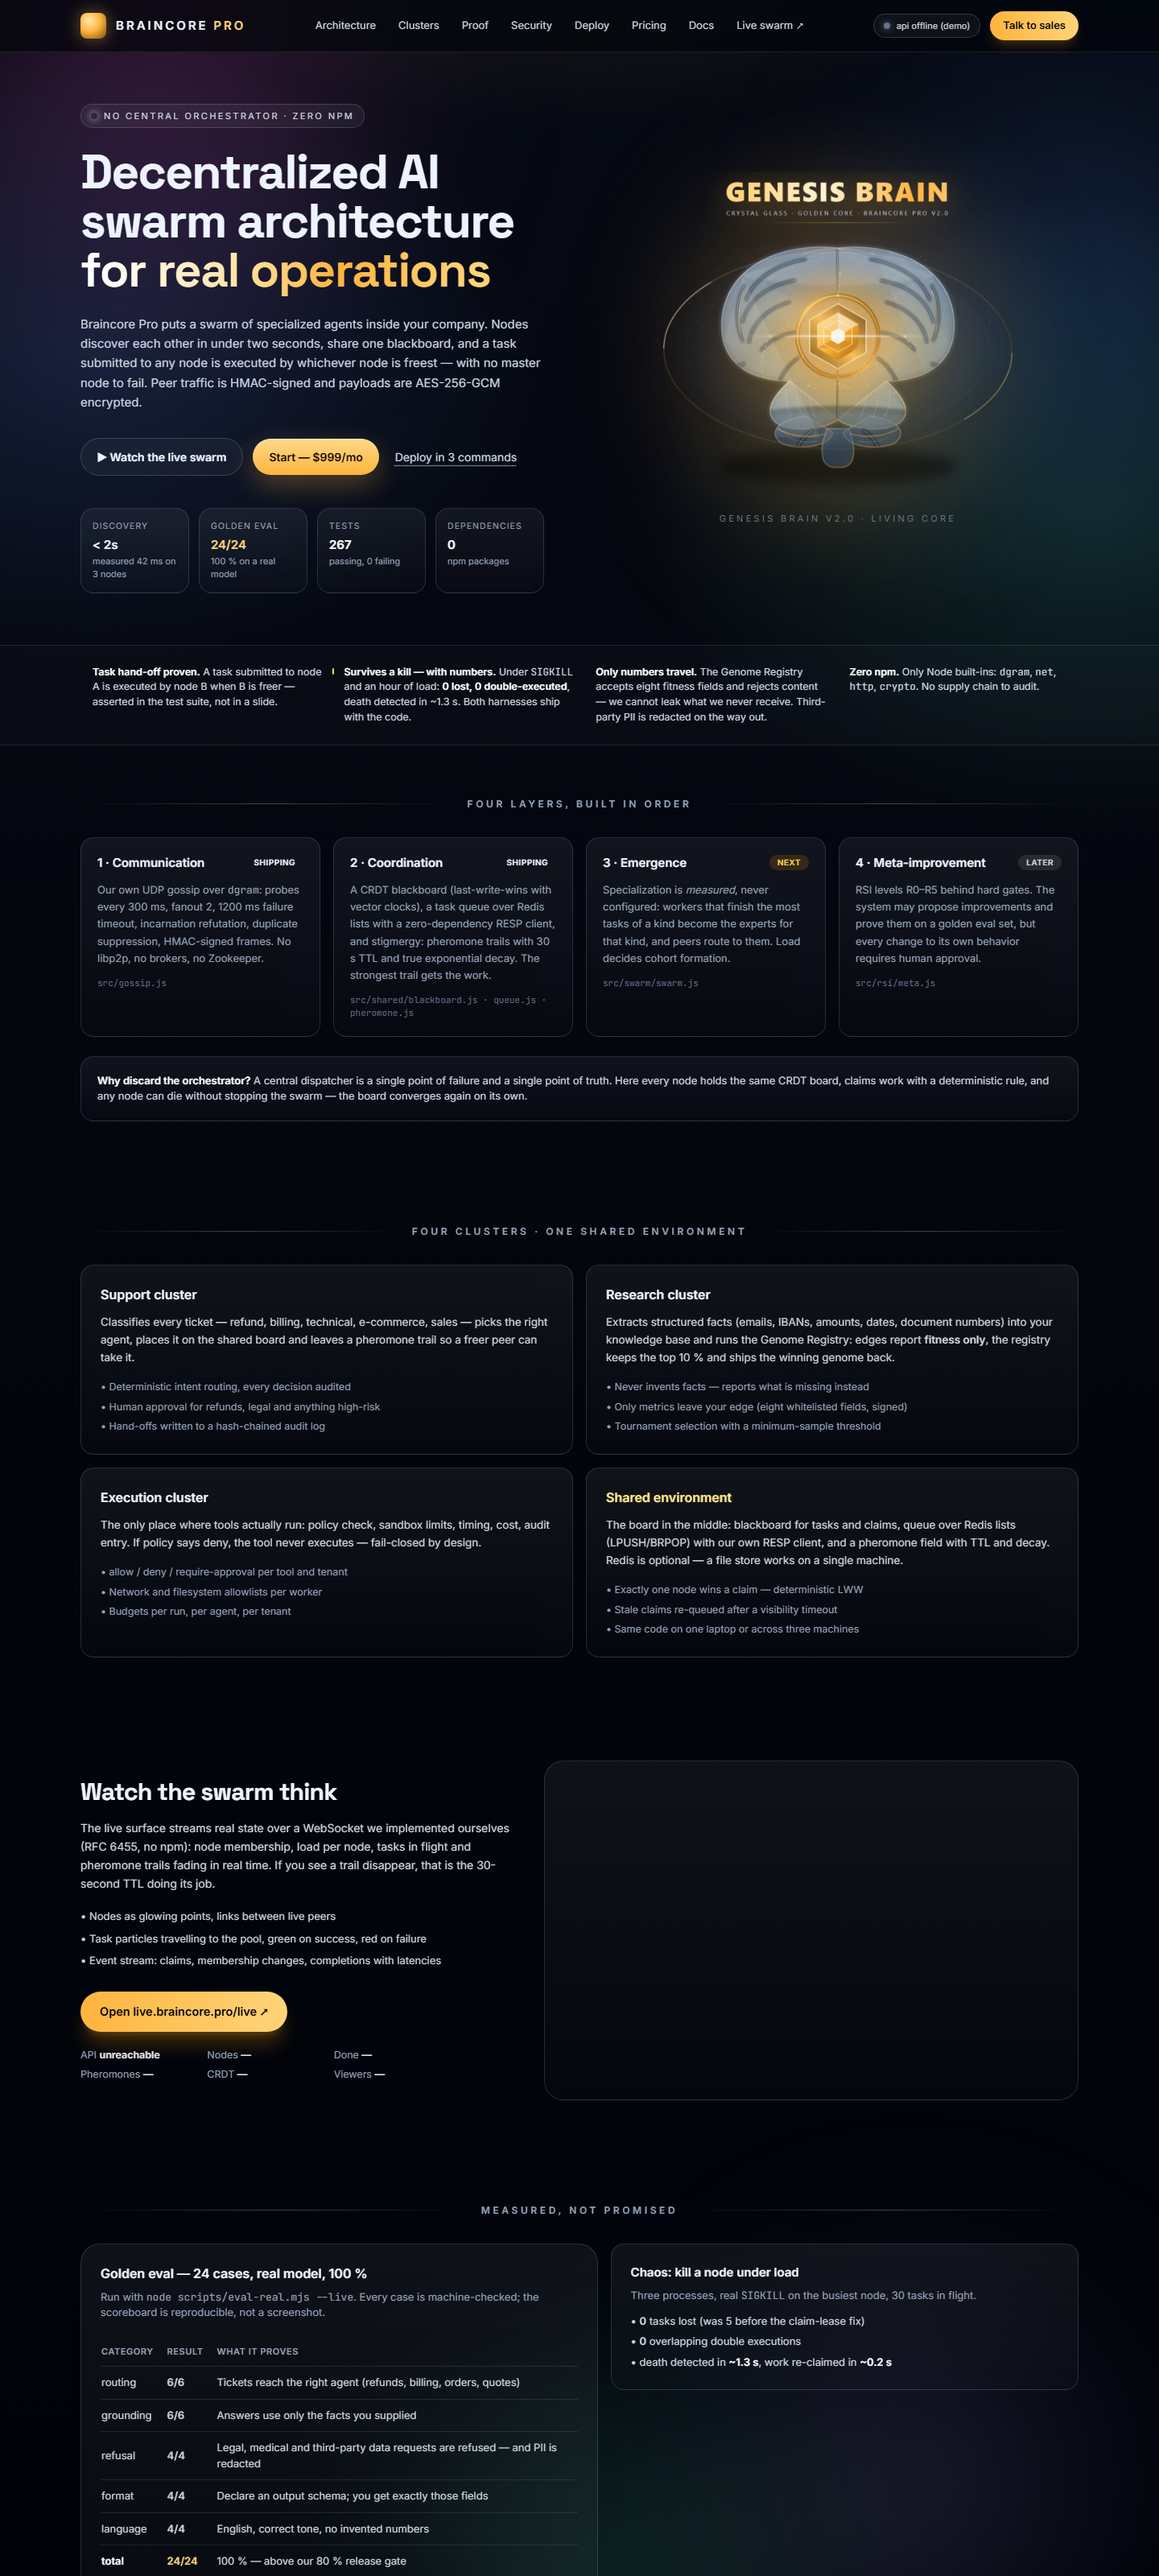
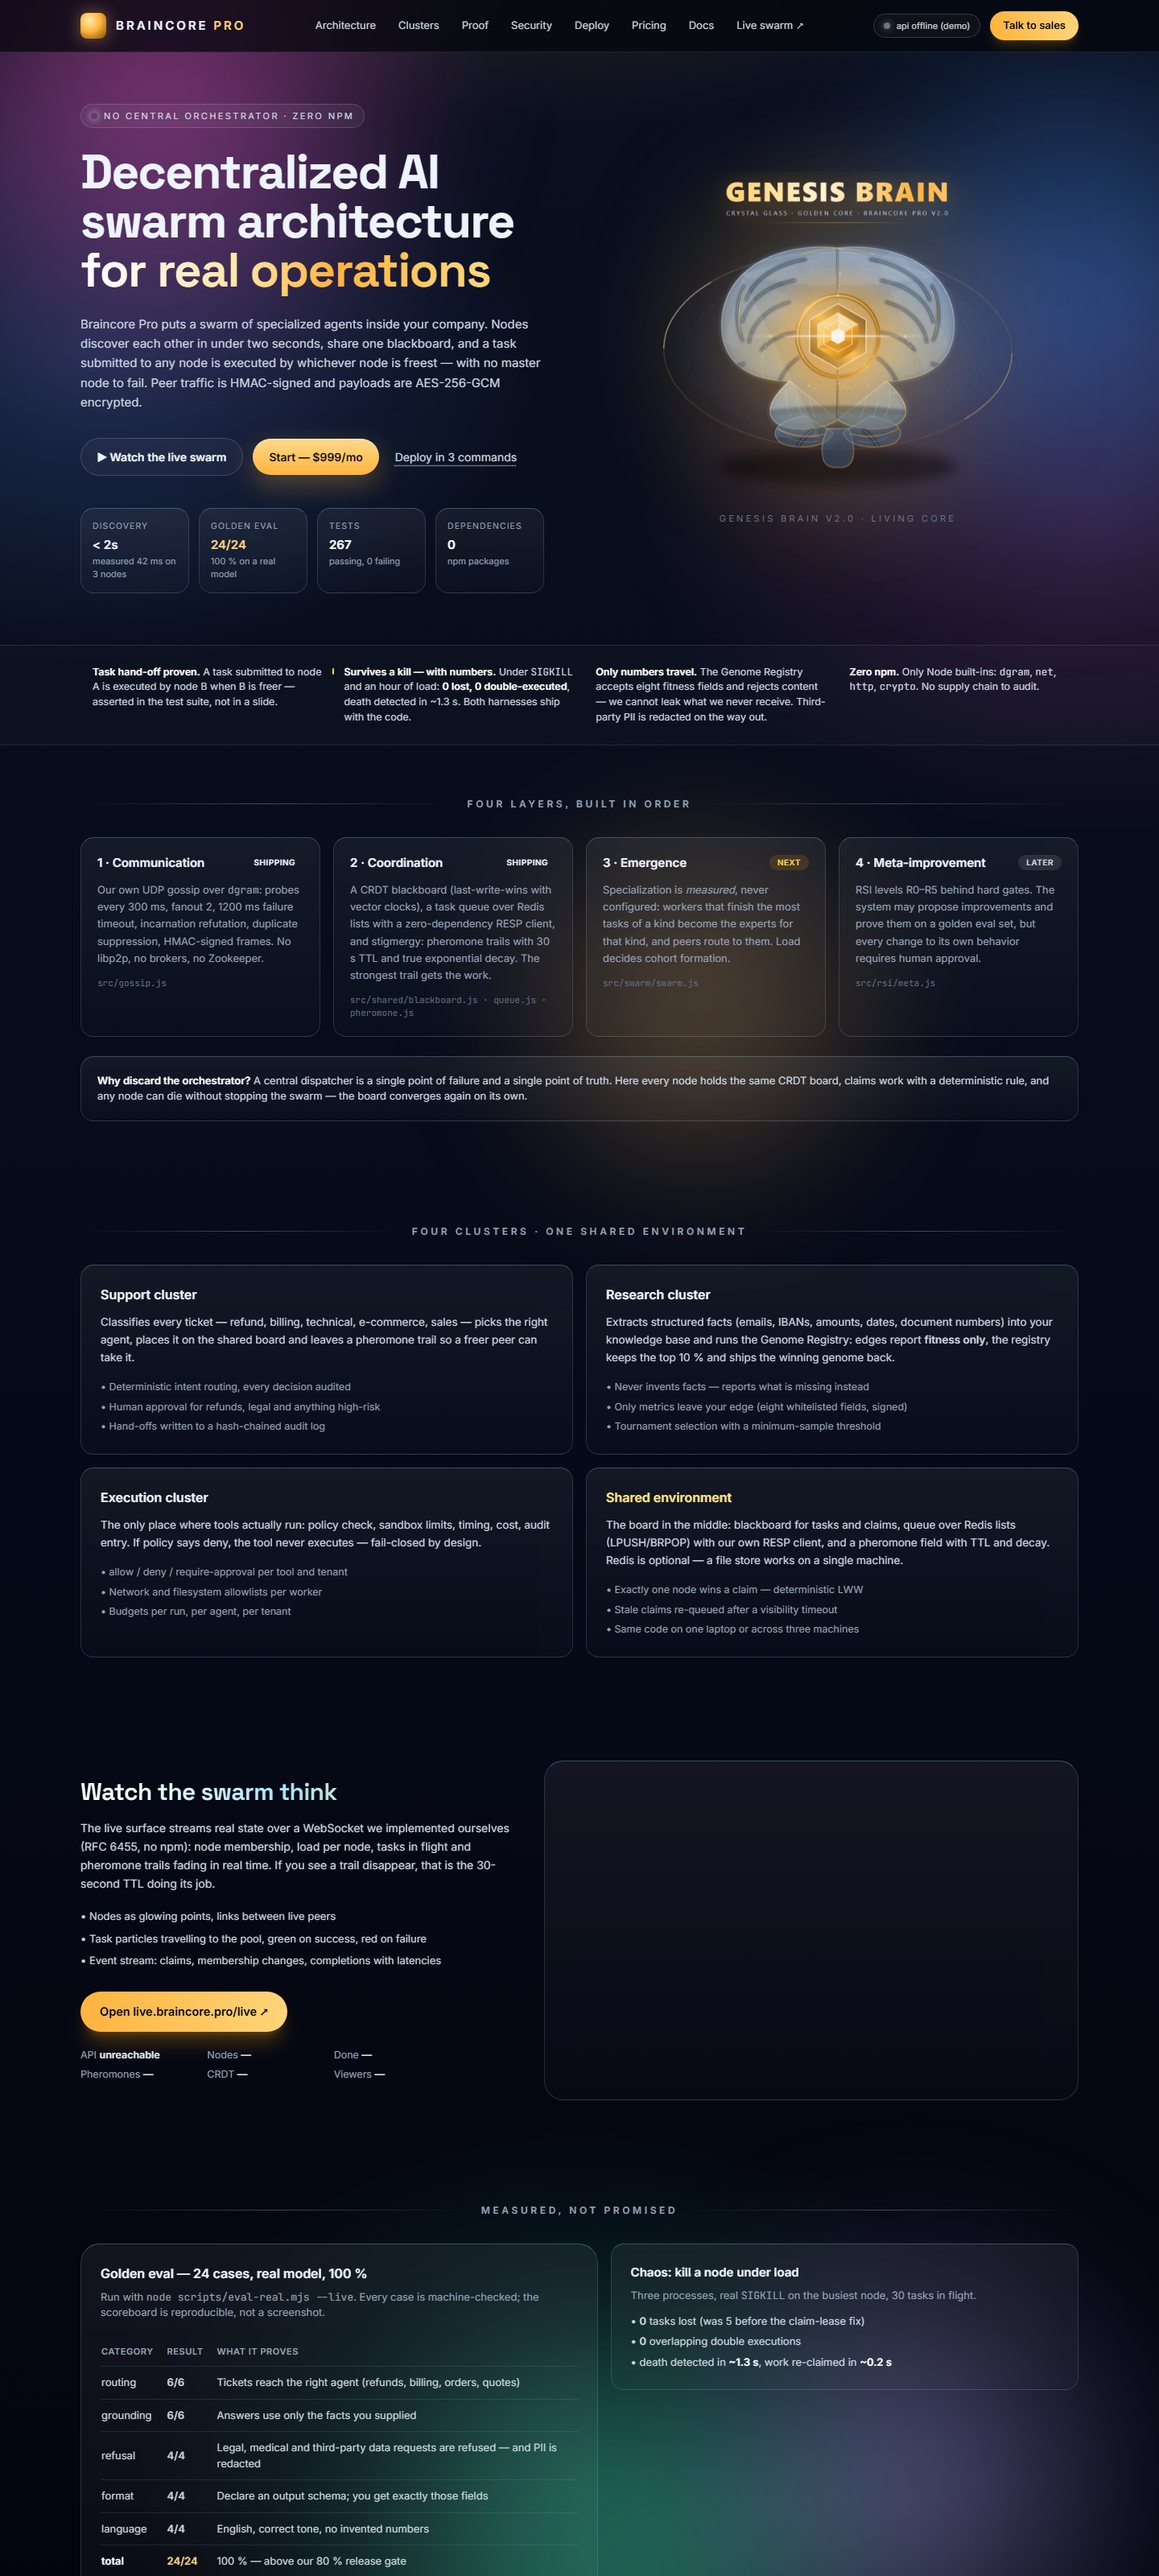
pojacanje boje (mjereno): aurora 4->5 bloba opacity .5->.8 blur 90->70px; tijelo svjetlije rgb 18,22,30 -> 28,31,44; tamni pikseli 92,0% -> 77,1%; cyan 2,1% -> 3,1%; h2 gradient; glass cyan gornja ivica

diff --git a/site/index.html b/site/index.html
@@ -35,24 +35,31 @@
   html { scroll-behavior: smooth; }
   body {
     background:
-      radial-gradient(1200px 800px at 50% -10%, rgba(255,180,61,.18), transparent 60%),
-      radial-gradient(900px 620px at 8% 14%, rgba(96,150,255,.16), transparent 62%),
-      radial-gradient(900px 640px at 94% 20%, rgba(90,255,210,.12), transparent 62%),
-      linear-gradient(180deg, #060a14 0%, #03050c 55%, #01030a 100%);
+      radial-gradient(1200px 800px at 50% -10%, rgba(255,180,61,.22), transparent 60%),
+      radial-gradient(900px 620px at 8% 14%, rgba(96,150,255,.22), transparent 62%),
+      radial-gradient(900px 640px at 94% 20%, rgba(255,92,208,.16), transparent 62%),
+      radial-gradient(900px 700px at 50% 96%, rgba(70,255,200,.14), transparent 62%),
+      linear-gradient(180deg, #0a1020 0%, #060a18 55%, #03050e 100%);
     background-attachment: fixed;
   }
-  /* aurora blobs — animirano */
+  /* aurora blobs — animirano, JAKO */
   .aurora { position: fixed; inset: 0; z-index: -1; overflow: hidden; pointer-events: none; }
-  .aurora span { position: absolute; border-radius: 50%; filter: blur(90px); opacity: .5; mix-blend-mode: screen; animation: drift 26s ease-in-out infinite alternate; }
-  .aurora span:nth-child(1){ width: 52vw; height: 52vw; left: -12vw; top: -18vw; background: radial-gradient(circle, rgba(255,92,208,.42), transparent 70%); }
-  .aurora span:nth-child(2){ width: 46vw; height: 46vw; right: -14vw; top: 2vw; background: radial-gradient(circle, rgba(80,150,255,.45), transparent 70%); animation-delay: -9s; }
-  .aurora span:nth-child(3){ width: 44vw; height: 44vw; left: 28vw; bottom: -20vw; background: radial-gradient(circle, rgba(90,255,210,.32), transparent 70%); animation-delay: -17s; }
-  .aurora span:nth-child(4){ width: 38vw; height: 38vw; right: 6vw; bottom: -8vw; background: radial-gradient(circle, rgba(185,166,255,.35), transparent 70%); animation-delay: -22s; }
+  .aurora span { position: absolute; border-radius: 50%; filter: blur(70px); opacity: .8; mix-blend-mode: screen; animation: drift 26s ease-in-out infinite alternate; }
+  .aurora span:nth-child(1){ width: 56vw; height: 56vw; left: -14vw; top: -20vw; background: radial-gradient(circle, rgba(255,92,208,.62), transparent 68%); }
+  .aurora span:nth-child(2){ width: 50vw; height: 50vw; right: -16vw; top: 0vw; background: radial-gradient(circle, rgba(80,150,255,.62), transparent 68%); animation-delay: -9s; }
+  .aurora span:nth-child(3){ width: 48vw; height: 48vw; left: 26vw; bottom: -22vw; background: radial-gradient(circle, rgba(70,255,200,.48), transparent 68%); animation-delay: -17s; }
+  .aurora span:nth-child(4){ width: 42vw; height: 42vw; right: 4vw; bottom: -10vw; background: radial-gradient(circle, rgba(185,166,255,.55), transparent 68%); animation-delay: -22s; }
+  .aurora span:nth-child(5){ width: 40vw; height: 40vw; left: 40vw; top: 30vh; background: radial-gradient(circle, rgba(255,190,90,.42), transparent 68%); animation-delay: -5s; }
   @keyframes drift { from { transform: translate3d(0,0,0) scale(1); } to { transform: translate3d(4vw,3vw,0) scale(1.15); } }
   .glass { background: linear-gradient(180deg, rgba(255,255,255,.06), rgba(255,255,255,.015));
     backdrop-filter: blur(16px); border: 1px solid rgba(190,220,255,.16); }
   .glass-hi { background: linear-gradient(180deg, rgba(255,255,255,.10), rgba(255,255,255,.03));
     backdrop-filter: blur(20px); border: 1px solid rgba(255,214,140,.30); box-shadow: 0 0 40px rgba(255,190,90,.08); }
+  /* obojeni akcenti — da strana ne bude samo tamna */
+  .glass { border-top-color: rgba(140,215,255,.32); }
+  h2.font-display { background: linear-gradient(96deg, #ffffff 8%, #a8e6ff 46%, #ffd479 88%);
+    -webkit-background-clip: text; background-clip: text; color: transparent; }
+  section { position: relative; }
   .gold-text { background: linear-gradient(94deg,#fff 4%,#ffe3a1 40%,#ffb43d 62%,#ffd479 96%);
     -webkit-background-clip: text; background-clip: text; color: transparent; }
   .cyan-text { background: linear-gradient(94deg,#fff 4%,#a8f0ff 45%,#5ce1ff 96%);
@@ -89,7 +96,7 @@
 </style>
 </head>
 <body class="text-ink font-sans antialiased selection:bg-gold/30">
-<div class="aurora" aria-hidden="true"><span></span><span></span><span></span><span></span></div>
+<div class="aurora" aria-hidden="true"><span></span><span></span><span></span><span></span><span></span></div>
 
 <!-- ── NAV ─────────────────────────────────────────────────────────────── -->
 <header class="sticky top-0 z-50 border-b border-white/10 bg-night/70 backdrop-blur-xl">
